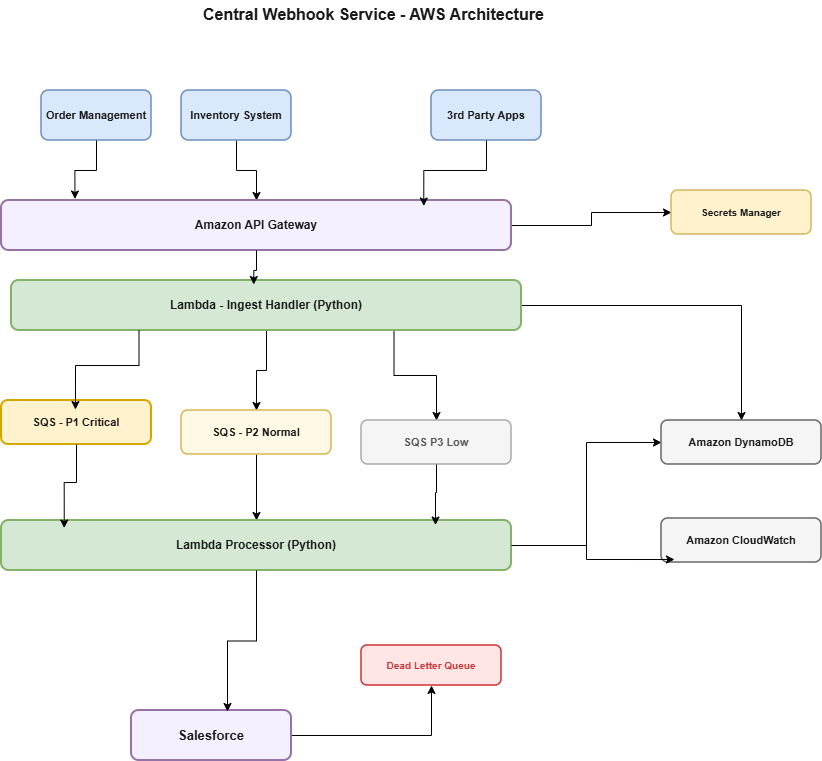
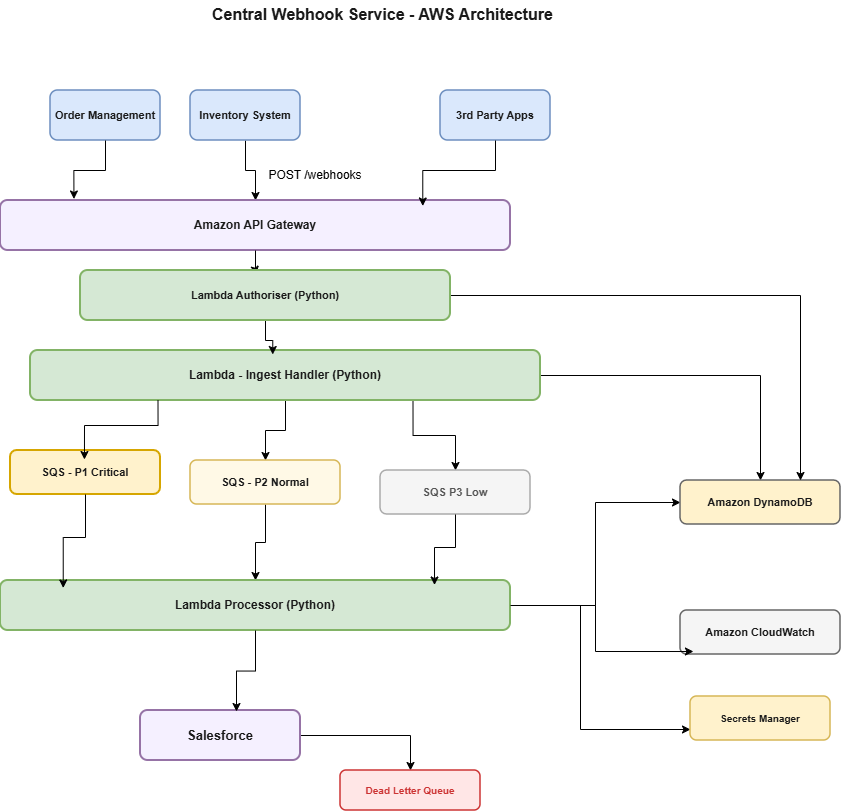
'WIP'

diff --git a/DESIGN.md b/DESIGN.md
@@ -40,33 +40,39 @@ code change.
 ## System Flow
 
 1. **Webhook Ingestion**
-   Client systems send events to Amazon API Gateway.
+   Source systems send events to Amazon API Gateway via POST /webhooks.
+   API Gateway stamps every request with a requestId (used as correlation_id).
 
-2. **Request Handler**
-   The request is processed by AWS Lambda (Ingest Service):
+2. **Authentication**
+   - API Gateway invokes a Lambda authoriser before any other processing.
+   - The authoriser gets the X-API-Key header and checks it in
+     DynamoDB. Returns Allow or Deny to API Gateway.
+
+3. **Request Handler**
+   The Authorised requests is processed by AWS Lambda (Ingest Service):
    - Input validation
    - Message ID generation
    - Idempotency check
-   - Attach correlation_id
 
-3. **Queueing (Priority-Based)**
+4. **Queueing (Priority-Based)**
    Messages are routed to Amazon SQS FIFO queues:
    - P1 - High priority
    - P2 - Medium priority
    - P3 - Low priority
 
-4. **Processing**
+5. **Processing**
    A worker (Lambda) processes messages using:
    - Priority-first polling (P1 then P2 then P3)
    - FIFO ordering within each queue
+   - message_id checked in DynamoDB before processing, to prevent duplicate delvery
 
-5. **Data Enrichment**
+6. **Data Enrichment**
    Additional data (customer, product) is fetched before delivery.
 
-6. **Delivery**
+7. **Delivery**
    The enriched payload is sent to Salesforce.
 
-7. **Failure Handling**
+8. **Failure Handling**
    Failed messages are retried with exponential backoff and eventually moved to a Dead Letter Queue (DLQ).
 
 ---
